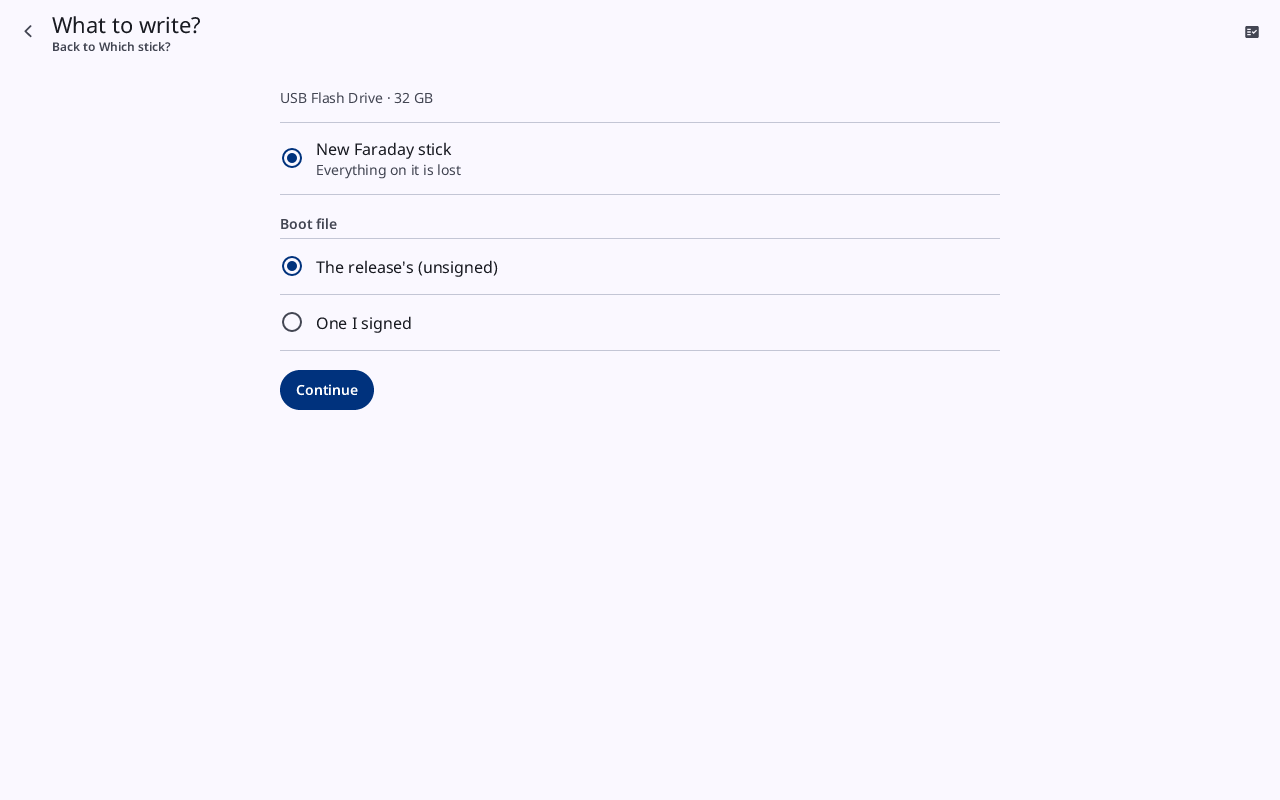
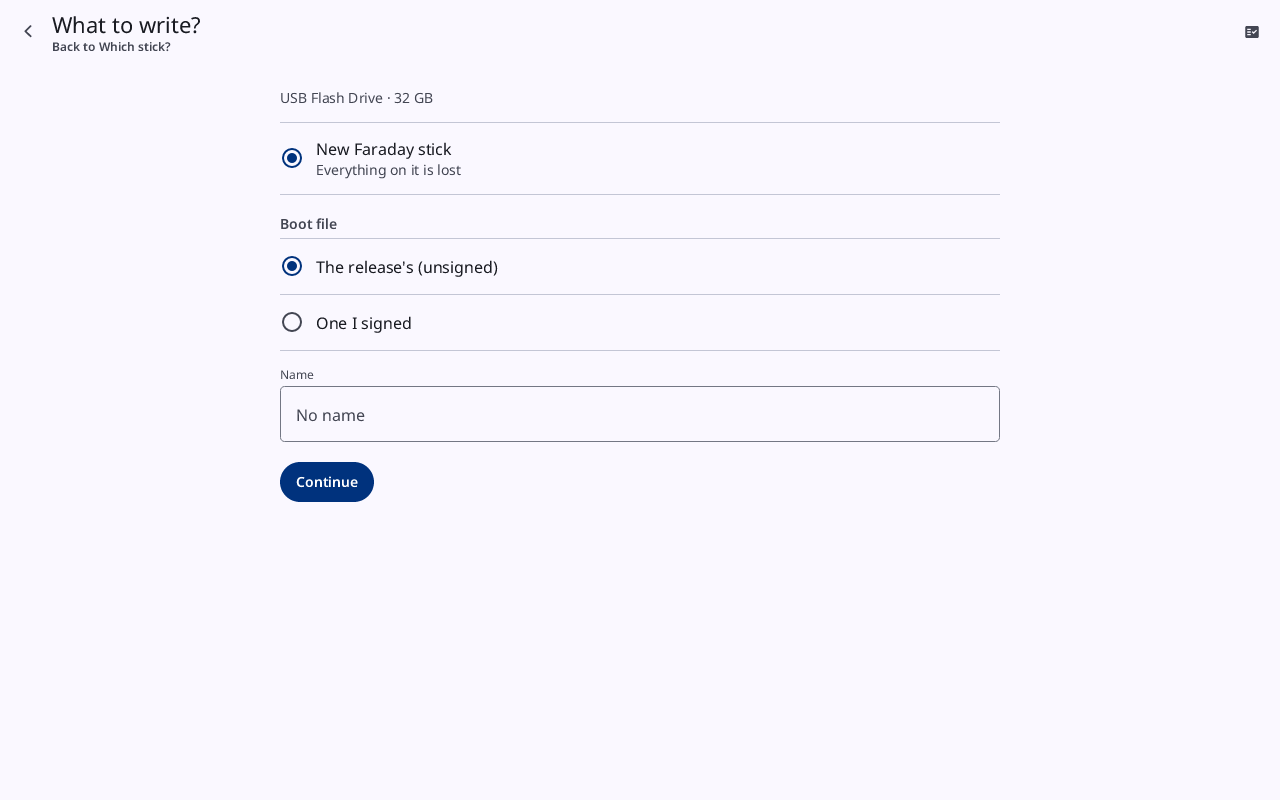
Redraw the guide's pictures of the Starter's What to write? and Written steps for the Name field; STICK-IDENTITY's Status and Open say what is built (the image, the device, the Starter, the Name field, Learn, the guide) and what is left (the Windows 11 test with two sticks, macOS's diskutil keys aga
Impact-skip: docs.spec-done: STICK-IDENTITY is still a Spec, the Windows 11 test and the macOS keys are open
Reviewed: tree.image-metadata, strings.plain

Changed region(s): [[0.2188, 0.4375, 0.3125, 0.5312], [0.2188, 0.5625, 0.3125, 0.625]]

diff --git a/docs/README.md b/docs/README.md
@@ -116,7 +116,7 @@ need. Each document's header says what kind it is:
 - `docs/MOTION.md`: Scrolling, motion and appearance. Built; not yet checked by the owner on hardware.
 - `docs/CRYPTO-LEARN.md`: How Faraday does it: one manifest for every cryptographic action. Specified (F148), not built.
 - `docs/STICK-SETUP.md`: Sticks and vaults, laid out together. Specified (F175), not built.
-- `docs/STICK-IDENTITY.md`: A stick that does not say it is Faraday's. Specified (F174), not built.
+- `docs/STICK-IDENTITY.md`: A stick that does not say it is Faraday's. Specified (F174); built except the Windows 11 test with two sticks and macOS keys checked against a Mac.
 - `docs/VAULT-HARDENING.md`: Vault hardening: the file's name, the passphrase, key commitment and the seal count. Specified (F159), not built.
 - `docs/CROSSCHECK.md`: A second implementation of each cryptographic step, and which of them are outside implementations and which Faraday's own (§10, §10.7, F160, F177). Option A decided (F79) and built (§10.5); options B and C deferred.
 - `docs/NOSTR.md`: The Nostr key. Not built, not scheduled (F27, amended by F34).

diff --git a/docs/STICK-IDENTITY.md b/docs/STICK-IDENTITY.md
@@ -1,8 +1,8 @@
 # A stick that does not say it is Faraday's
 
 **Kind:** Spec
-**Status:** Specified (F174); the image and the device built (§3, §4.1, §5.1, §5.2, §6 on the device, §7, §8)
-**Open:** the Starter: each stick's own IDs and the check after writing (§4.2 to §4.4), knowing a stick by its layout (§5.3), the Name field (§6); the checks of §3 (what each system shows for a data partition with no label) and §10 (two sticks in the Windows 11 virtual machine)
+**Status:** Specified (F174); built: the image, the device, the Starter, the Name field, Learn and the guide (§3 to §8)
+**Open:** the Windows 11 virtual machine test with two sticks written by the Starter (§2, §10's last item), and macOS's `diskutil` keys checked against a Mac (`docs/MAC.md`)
 
 A Faraday stick or Pi card has partitions with the same names as any
 other stick or card, its own IDs, and nothing in Faraday that finds it
